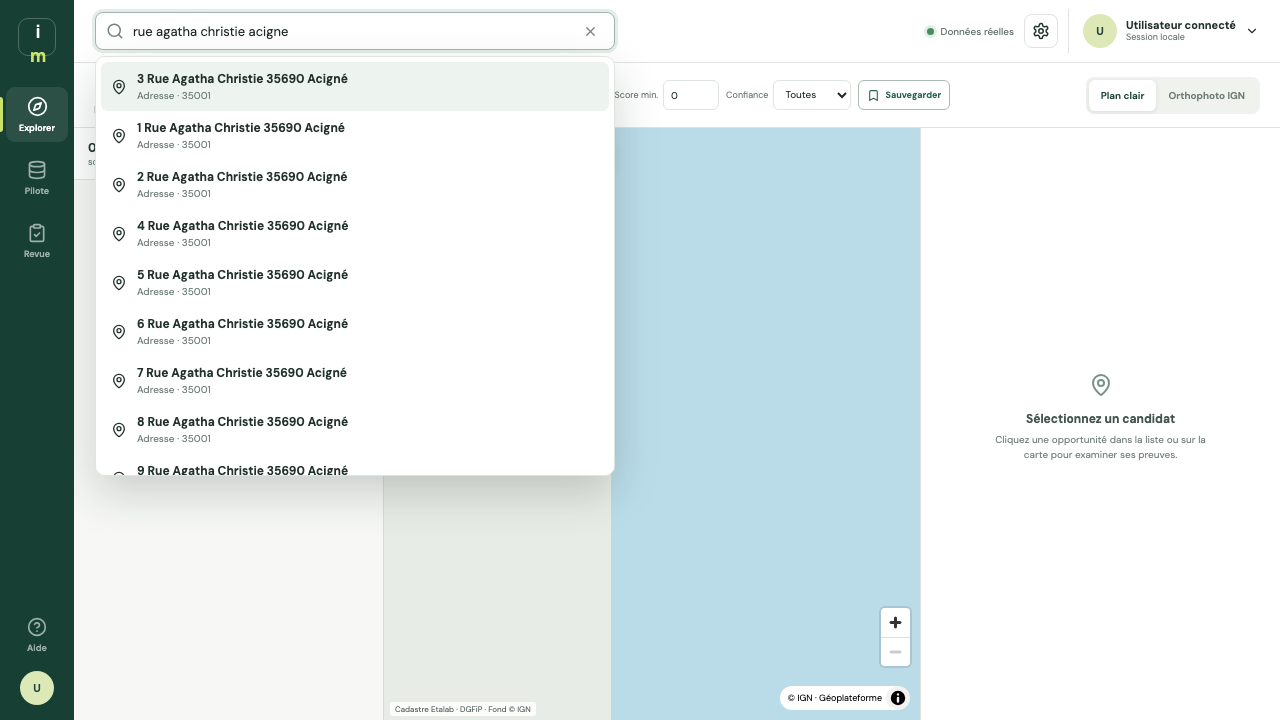
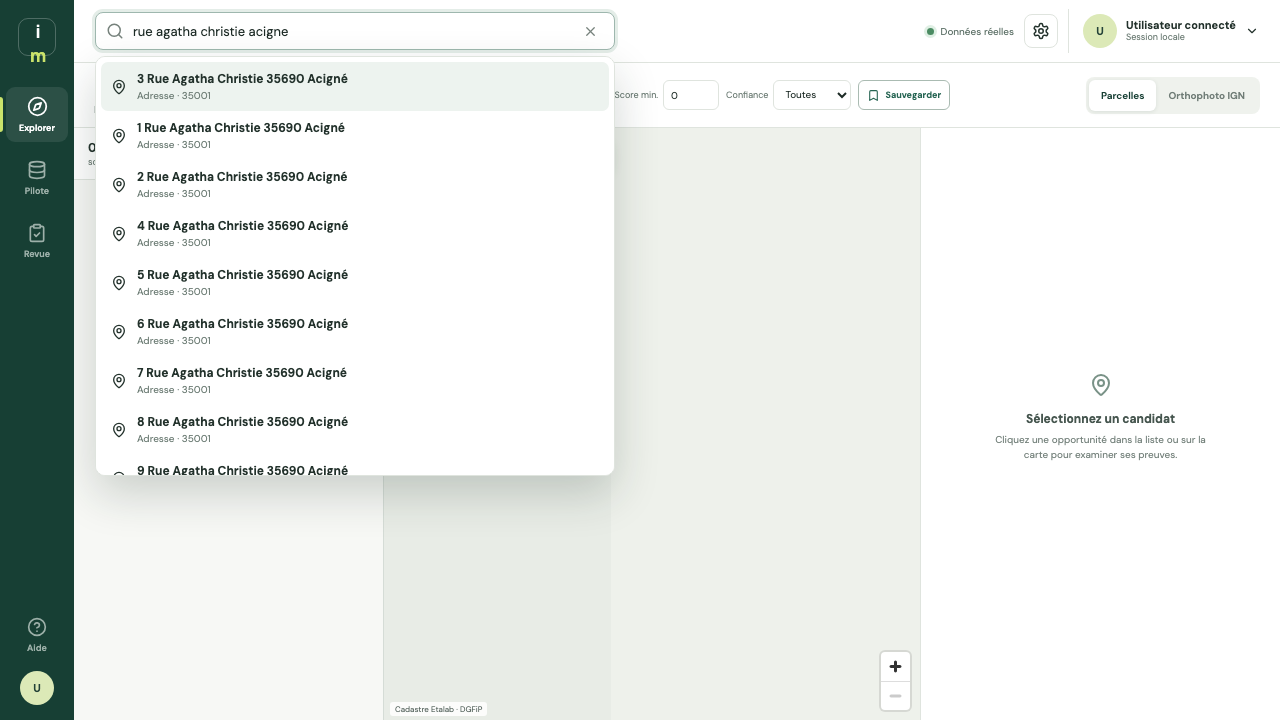
BUG — Retirer le Plan IGN de l'Explorer aussi : même translation
Le correctif précédent n'avait traité que l'écran de revue. L'Explorer
posait exactement le même raster PLANIGNV2, à 0,76 d'opacité, sous les
mêmes vecteurs. La capture le montre sans ambiguïté : les numéros de
parcelle apparaissaient en double — « 0435 » net en violet, notre
étiquette vectorielle, et « 75 » flou en gris, celle du raster — décalés
l'un par rapport à l'autre, avec les bâtiments du raster glissés sous
les nôtres.

Même cause qu'en revue et même correctif. PLANIGNV2 est un produit
cartographique, généralisé et déplacé pour la lisibilité ; ce n'est pas
une référence géométrique et il n'a rien à faire sous des géométries
précises.

Le fond « Plan clair » devient « Parcelles » : plus aucun raster, nos
propres parcelles et bâtiments vectoriels servis par Martin depuis la
base qui alimente les fiches. Alignés par construction, puisque c'est la
même donnée.

Les opacités de remplissage étaient calculées pour laisser transparaître
le raster — parcelles à 0,24. Sans fond dessous la carte devenait
délavée : 0,6 hors orthophoto, 0,24 conservé dessus.

La mention « Fond © IGN » devient conditionnelle. Elle s'affichait en
permanence alors qu'il n'y a plus de fond IGN qu'en orthophoto.

Vérifié aux deux fonds sur la parcelle 350930000C0435 à Dinard : plus
aucun doublon ni décalage sur « Parcelles », et sur l'orthophoto les
limites suivent les haies et les emprises tombent sur les toits.

16 tests e2e verts, make check vert.

Changed region(s): [[0.4688, 0.1528, 0.7188, 1.0], [0.875, 0.1222, 0.9062, 0.1528], [0.375, 0.9778, 0.4062, 1.0]]

diff --git a/apps/web/src/RealMap.tsx b/apps/web/src/RealMap.tsx
@@ -10,7 +10,16 @@ import MapLibreMap, {
 import type { FilterSpecification, StyleSpecification } from 'maplibre-gl'
 import type { Bbox, EntityType } from './api'
 
-const PLAN_IGN = 'https://data.geopf.fr/wmts?SERVICE=WMTS&REQUEST=GetTile&VERSION=1.0.0&LAYER=GEOGRAPHICALGRIDSYSTEMS.PLANIGNV2&STYLE=normal&FORMAT=image/png&TILEMATRIXSET=PM&TILEMATRIX={z}&TILEROW={y}&TILECOL={x}'
+/**
+ * **Pas de Plan IGN sous les vecteurs.** PLANIGNV2 est un produit *cartographique* — généralisé
+ * et déplacé pour la lisibilité — pas une référence géométrique. Superposé à nos géométries il
+ * produisait une translation visible (numéros de parcelle en double, décalés) qui n'existe pas
+ * dans les données. Signalé sur la revue puis sur l'Explorer.
+ *
+ * Le fond « Parcelles » n'est donc plus un raster du tout : ce sont nos propres parcelles et
+ * bâtiments vectoriels, issus de la base qui sert aussi les fiches, donc alignés par
+ * construction. Seule l'orthophoto, orthorectifiée, reste un fond image acceptable.
+ */
 const ORTHOPHOTO_IGN = 'https://data.geopf.fr/wmts?SERVICE=WMTS&REQUEST=GetTile&VERSION=1.0.0&LAYER=ORTHOIMAGERY.ORTHOPHOTOS&STYLE=normal&FORMAT=image/jpeg&TILEMATRIXSET=PM&TILEMATRIX={z}&TILEROW={y}&TILECOL={x}'
 
 const BASE_STYLE: StyleSpecification = {
@@ -95,18 +104,14 @@ const RealMap = forwardRef<RealMapHandle, Props>(function RealMap({
       cursor="crosshair"
       reuseMaps
     >
-      <Source
-        id="ign-background"
-        type="raster"
-        tiles={[orthophoto ? ORTHOPHOTO_IGN : PLAN_IGN]}
-        tileSize={256}
-        attribution="© IGN · Géoplateforme"
-      >
-        <Layer id="ign-background" type="raster" minzoom={0} maxzoom={20} paint={{ 'raster-opacity': orthophoto ? 0.88 : 0.76 }} />
-      </Source>
+      {orthophoto && (
+        <Source id="ign-background" type="raster" tiles={[ORTHOPHOTO_IGN]} tileSize={256} attribution="© IGN · Géoplateforme">
+          <Layer id="ign-background" type="raster" minzoom={0} maxzoom={20} paint={{ 'raster-opacity': 0.88 }} />
+        </Source>
+      )}
       <Source id="parcels" type="vector" tiles={['/tiles/v1/parcels/{z}/{x}/{y}.mvt']} minzoom={13} maxzoom={22} attribution="Etalab · DGFiP">
-        <Layer id="parcels-fill" source-layer="parcels" type="fill" minzoom={13} paint={{ 'fill-color': '#d8e6c7', 'fill-opacity': 0.24 }} />
-        <Layer id="parcels-line" source-layer="parcels" type="line" minzoom={13} paint={{ 'line-color': '#547564', 'line-width': ['interpolate', ['linear'], ['zoom'], 13, 0.4, 18, 1.4] }} />
+        <Layer id="parcels-fill" source-layer="parcels" type="fill" minzoom={13} paint={{ 'fill-color': '#d8e6c7', 'fill-opacity': orthophoto ? 0.24 : 0.6 }} />
+        <Layer id="parcels-line" source-layer="parcels" type="line" minzoom={13} paint={{ 'line-color': '#547564', 'line-width': ['interpolate', ['linear'], ['zoom'], 13, 0.4, 18, 1.4], 'line-opacity': orthophoto ? 0.9 : 1 }} />
         <Layer id="parcel-selected" source-layer="parcels" type="line" minzoom={13} filter={selectedParcelFilter} paint={{ 'line-color': '#d17b25', 'line-width': 3.5 }} />
       </Source>
       <Source id="buildings" type="vector" tiles={['/tiles/v1/buildings/{z}/{x}/{y}.mvt']} minzoom={15} maxzoom={22} attribution="Etalab · DGFiP">

diff --git a/apps/web/src/App.tsx b/apps/web/src/App.tsx
@@ -413,7 +413,7 @@ function App() {
             <label>Confiance<select aria-label="Confiance" value={confidence} onChange={(event) => setConfidence(event.target.value as typeof confidence)}><option value="">Toutes</option><option value="high">Haute</option><option value="medium">Moyenne</option><option value="low">Faible</option></select></label>
             <button className="save-search-button" onClick={() => setSaveSearchOpen((open) => !open)}><Bookmark size={13} /> Sauvegarder</button>
           </div>
-          <div className="map-mode" role="group" aria-label="Fond cartographique"><button className={!orthophoto ? 'active' : ''} onClick={() => setOrthophoto(false)}>Plan clair</button><button className={orthophoto ? 'active' : ''} onClick={() => setOrthophoto(true)}>Orthophoto IGN</button></div>
+          <div className="map-mode" role="group" aria-label="Fond cartographique"><button className={!orthophoto ? 'active' : ''} onClick={() => setOrthophoto(false)}>Parcelles</button><button className={orthophoto ? 'active' : ''} onClick={() => setOrthophoto(true)}>Orthophoto IGN</button></div>
         </section>
         {saveSearchOpen && <form className="save-search-popover" onSubmit={saveSearch}><label>Nom de la recherche<input autoFocus value={savedSearchName} maxLength={160} onChange={(event) => setSavedSearchName(event.target.value)} /></label><button type="submit">Enregistrer</button></form>}
         {savedSearchMessage && <div className="toast" role="status">{savedSearchMessage}<button aria-label="Fermer le message" onClick={() => setSavedSearchMessage('')}><X size={13} /></button></div>}
@@ -441,7 +441,7 @@ function App() {
             <RealMap ref={mapRef} initialView={view} orthophoto={orthophoto} selected={selectedMapEntity} selectedOpportunity={opportunityId} onViewport={handleViewport} onSelect={(type, id) => { setOpportunityId(null); setSelection({ type, id }) }} onOpportunitySelect={(id) => { setSelection(null); setOpportunityId(id) }} onError={() => setMapError(true)} />
             <div className="layer-badge"><Layers3 size={15} /> Opportunités · Parcelles · Bâtiments</div>
             {mapError && <div className="map-error"><TriangleAlert size={15} /><span>Une couche n’a pas chargé.</span><button onClick={() => { setMapError(false); setRefreshKey((key) => key + 1) }}>Réessayer</button></div>}
-            <div className="source-attribution">Cadastre Etalab · DGFiP · Fond © IGN</div>
+            <div className="source-attribution">Cadastre Etalab · DGFiP{orthophoto ? ' · Orthophoto © IGN' : ''}</div>
           </section>
 
           <aside className="detail-panel" aria-live="polite">
